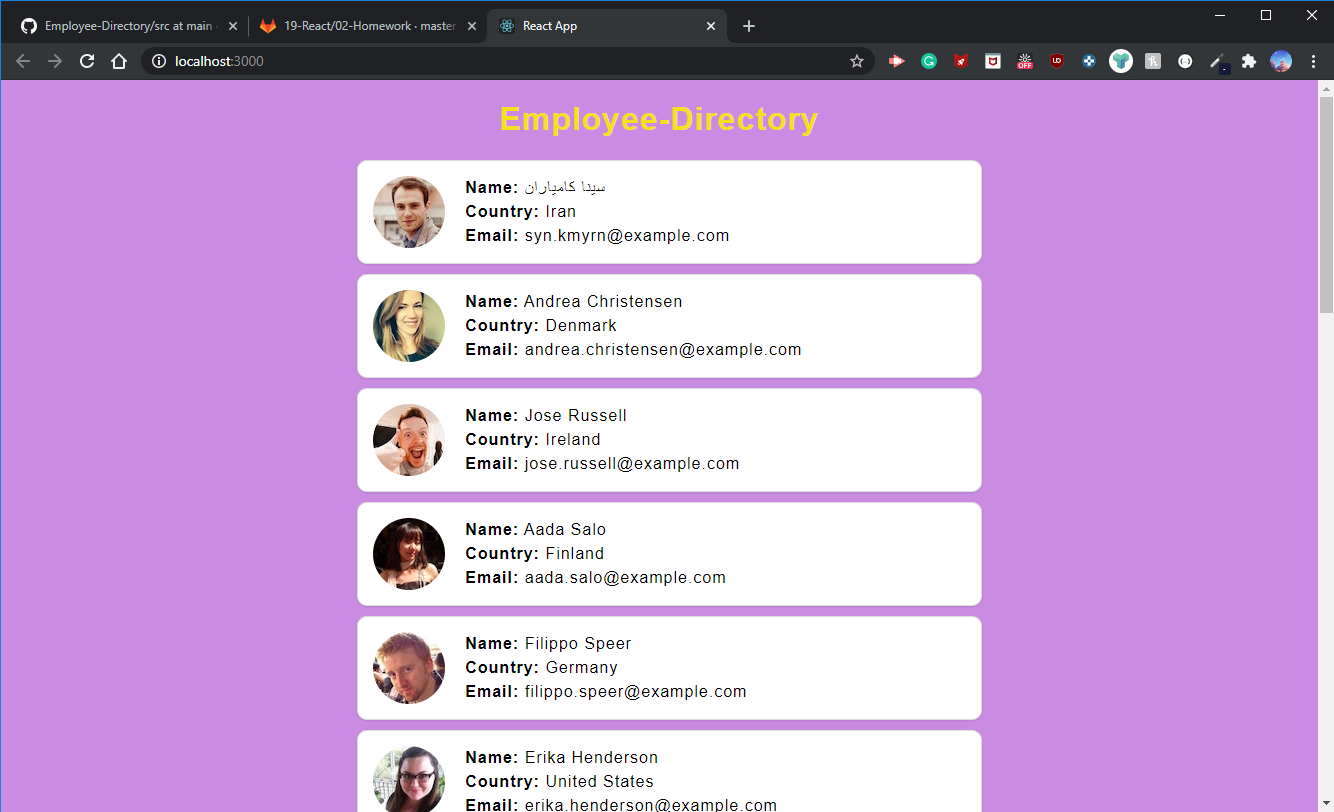
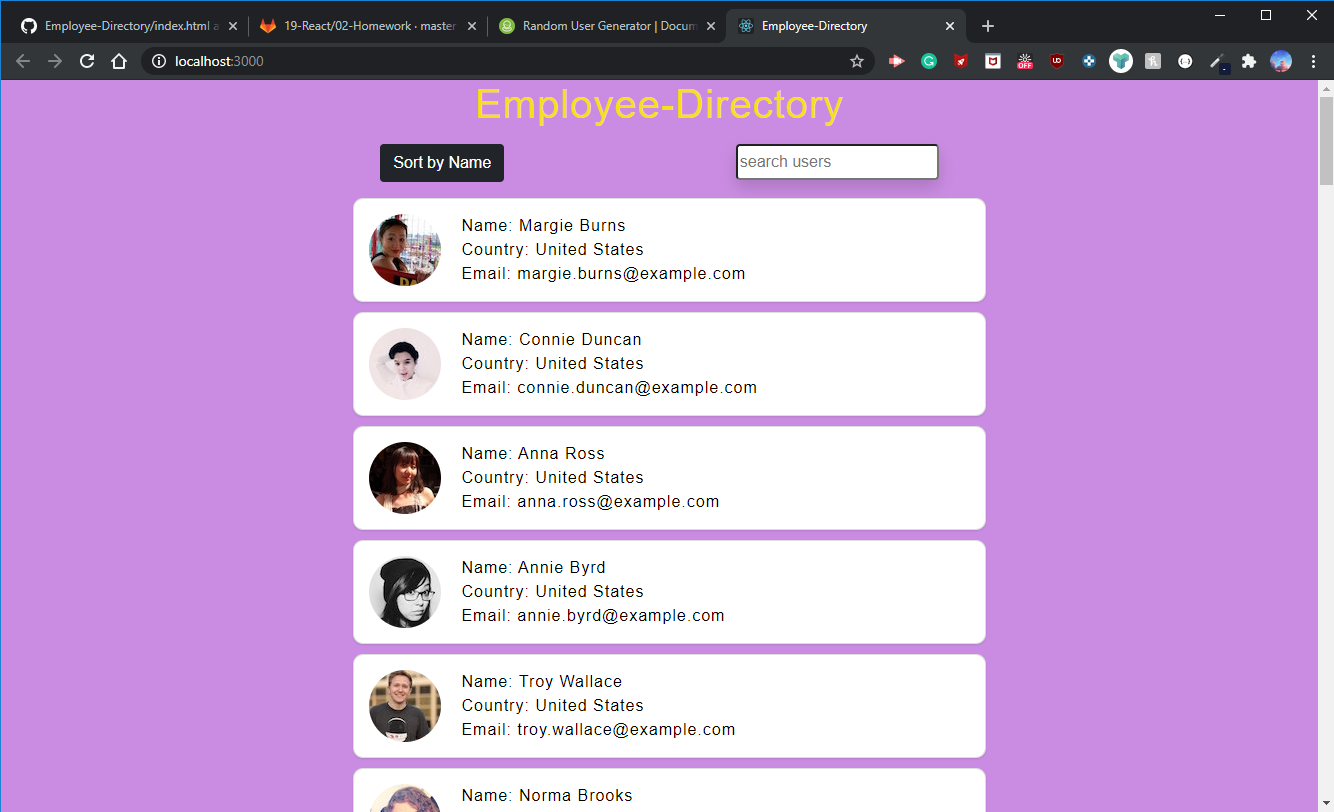
search bar

diff --git a/src/components/SearchBar.js b/src/components/SearchBar.js
@@ -1,0 +1,23 @@
+import React from "react";
+
+function SearchBar({ onSearch, searchTerm, handleSortByName }) { // The two props coming down from the SearchBar Component
+    return (
+        <div className="searchBar d-flex justify-content-around mt-3 mb-3">
+            <div className="sortByNameBtn">
+                <button onClick={handleSortByName} type="button" className="btn btn-dark">Sort by Name</button>
+            </div>
+            <div>
+            <form>
+                <input
+                    value={searchTerm} // value attribute here keeps what you type in sync
+                    onChange={onSearch} // the onChange is the event listening attribute that uses the onSearch prop method let state know there was a change
+                    className="shadow pl-5 rounded w-full py-1"
+                    type="text"
+                    placeholder="search users"/>
+            </form>
+            </div>
+        </div>
+    )
+}
+
+export default SearchBar;

diff --git a/src/App.js b/src/App.js
@@ -5,6 +5,7 @@ import { Provider } from 'react-redux';
 import Header from './components/Header';
 import UsersList from './components/UsersList';
 import './css/styles.css';
+import SearchBar from "./components/SearchBar";
 
 import { createStore } from 'redux';
 import usersReducer from './reducers/users';
@@ -25,7 +26,7 @@ const addUsers = (users) => {
 
 class App extends React.Component {
     componentDidMount() {
-        axios.get('https://randomuser.me/api/?page=1&results=10')
+        axios.get('https://randomuser.me/api/?results=25&nat=us')
             .then(response => {
                 console.log(response.data);
                 store.dispatch(addUsers(response.data.results));
@@ -35,6 +36,7 @@ class App extends React.Component {
         return (
             <div className="main-section">
                 <Header />
+                <SearchBar />
                 <UsersList />
             </div>
         )

diff --git a/public/index.html b/public/index.html
@@ -24,7 +24,13 @@
       work correctly both with client-side routing and a non-root public URL.
       Learn how to configure a non-root public URL by running `npm run build`.
     -->
-    <title>React App</title>
+    <!-- Bootstrap -->
+    <link 
+    href="https://cdn.jsdelivr.net/npm/bootstrap@5.0.0-beta2/dist/css/bootstrap.min.css" 
+    rel="stylesheet" 
+    integrity="sha384-BmbxuPwQa2lc/FVzBcNJ7UAyJxM6wuqIj61tLrc4wSX0szH/Ev+nYRRuWlolflfl" 
+    crossorigin="anonymous">
+    <title>Employee-Directory</title>
   </head>
   <body>
     <noscript>You need to enable JavaScript to run this app.</noscript>
